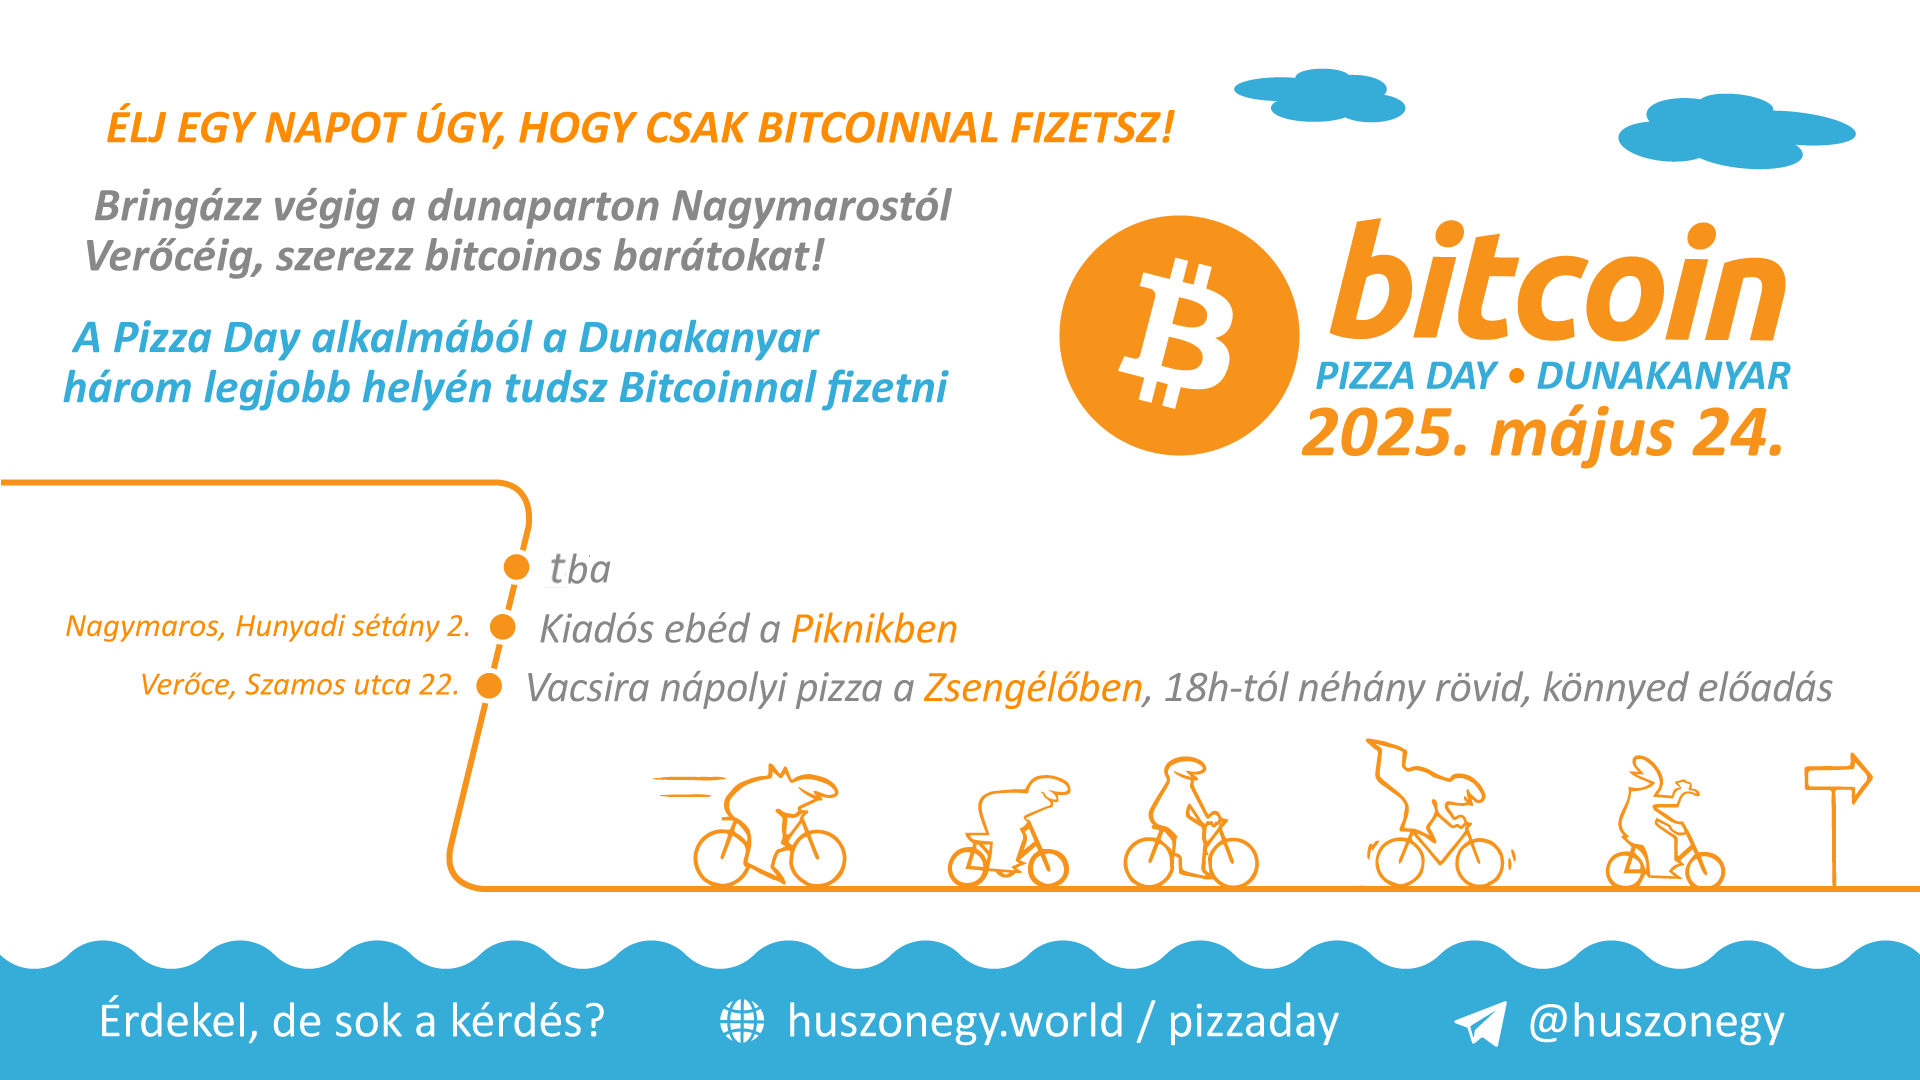
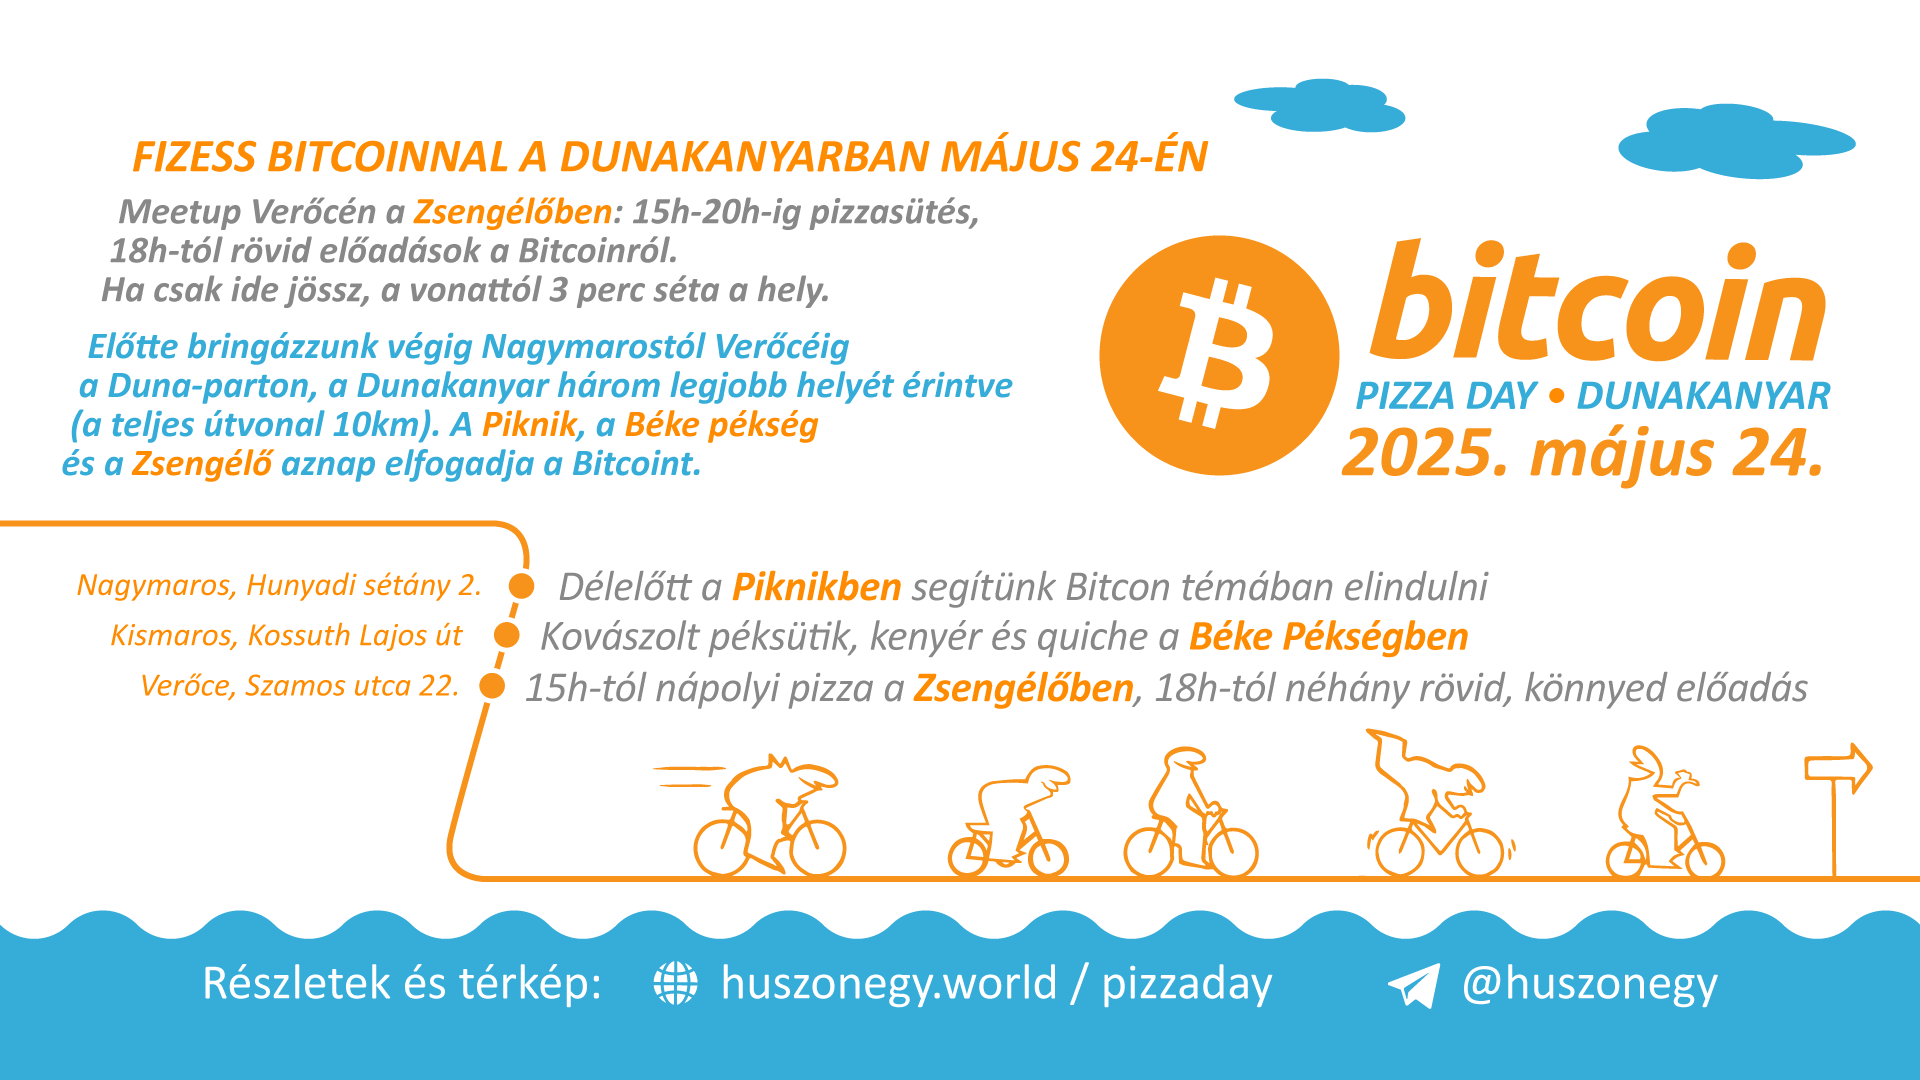
updated pizzaday page

Changed region(s): [[0.0, 0.0611, 1.0, 0.9778], [0.8438, 0.0611, 0.9688, 0.1833], [0.9375, 0.6722, 1.0, 0.7333]]

diff --git a/src/views/PizzaView.vue b/src/views/PizzaView.vue
@@ -1,35 +1,51 @@
 <template>
   <main>
     <div name="main-inner" class="container">
-      <div class="container-sm py-3 px-3 mx-auto" style="min-height: 400px;">
+      <div class="container-sm py-3 px-3 mx-auto" style="min-height: 400px; max-width: 860px;">
         <img src="/pics/pizzaday.jpg" style="max-width: 800px;"><br>
         <h1>Pizza Nap a Dunakanyarban</h1>
 
 <p>
     Idén 15 éve történt a világ első Bitcoinos vásárlása egy magyar származású programozó, Hanyecz László által.
-    Ebből az alkalomból a Dunakanyarban több helyen lehet majd Bitcoinnal fizetni. Kiváló minőségű ételeket és helyi termékeket vásárolhattok, továbbá tettrekész bitcoinosokkal találkozhattok.
+    Ebből az alkalomból a Dunakanyarban több helyen lehet majd Bitcoinnal fizetni és meetupot is tartunk. Kiváló minőségű ételeket és helyi termékeket vásárolhattok, továbbá tettrekész bitcoinosokkal találkozhattok.
 </p>
 <p>
 Néhány gyors infó:
-<li>A Bitcoin egy valuta, ami nem inflálódik és tetszőlegesen darabolható, így akár 10 forintot is tarthatsz bitcoinban</li>
-<li>Egy mobil appot kell csak feltelepíteni, és feltölteni bitcoinnal ahhoz, hogy fizetni tudj vele. Nem kell hozzá varázslónak lenni.</li>
-<li>Egy tranzakció néhány forintba vagy fillérbe kerül és pár másodperc alatt lezajlik.</li>
-<li>A Bitcoin már nem csak a kockák szórakozása, hanem az infláció elleni védekezés hatékony eszköze.</li>
 </p>
+
+<li>A Bitcoin egy valuta, ami nincs kitéve a világban egyre gyorsuló pénznyomtatás inflációs hatásának.</li>
+<li>Tetszőlegesen darabolható, így akár 10 forintot is tarthatsz bitcoinban.</li>
+<li>Egy mobil appot kell csak feltelepíteni, és feltölteni bitcoinnal ahhoz, hogy használni tudd. Nem kell hozzá varázslónak lenni.</li>
+<li>Egy tranzakció néhány forintba vagy fillérbe kerül és pár másodperc alatt lezajlik.</li>
+<li>Helyesen használva a világpolitika aktuális állásától függetlenül rendelkezhetsz a vagyonod Bitcoinban tartott része fölött. Nem lefoglalható, erőszakkal nem elvehető, pénznyomtatással nem inflálható, harmadik féltől nem kell engedély, hogy használhasd.</li>
+<br>
 
 <p>
 Ha most kezded a bitcoinozást, javasoljuk, hogy a "Blink Bitcoin Wallet"-et (iPhoneon "Blink (Bitcoin Beach Wallet)") telepítsd fel a telefonodra mielőtt elindulsz otthonról. Ez egy egyszerűen használható tárca, ami ráadásul helyi termék, hiszen hazai az egyik fejlesztője.
-Tegyél a pénztárcába valamennyi Bitcoint, hogy pizzára, kajára, piára, házi lekvárra, és tanyasi sajtra is jusson! (útmutató hamarosan) Ebben mi is tudunk segíteni a Miegymásban reggel 10-től délig.
+Tegyél a pénztárcába valamennyi Bitcoint, hogy pizzára, kajára, piára is jusson!
+</p>
+<p>
+Aki szeretné, annak a Piknikben délelőtt segítünk, hogy bitcoin kerüljön a tárcájába. Vagy a Zsengélőben délután. Ha csak kíváncsi vagy, mi hajtja a Bitcoinosokat, természetesen forinttal is vásárolhatsz a helyeken, szívesen látunk.
 </p>
 
-<h3>Helyszínek</h3>
+<h3>Helyszínek, ahol elfogadják a Bitcoint aznap</h3>
 <p>
-A Piknikben változatos kajákat, hamburgert, sütiket, sülteket vagy épp indiai fűszerezéssel készült egytálételeket kaptok. Érdemes elidőzni egy kicsit a mediterrán hangulatú helyen a Duna-parton.
+<img src="/pics/zs.jpg" height="160">
+&nbsp;
+<img src="/pics/b.jpg" height="160">
+&nbsp;
+<img src="/pics/pm.jpg" height="160">
+</p>
+
+<p>
+A <b>Piknik Manufaktúrában</b> változatos kajákat, hamburgert, sütiket, sülteket vagy épp indiai fűszerezéssel készült egytálételeket kaptok. Érdemes elidőzni egy kicsit a mediterrán hangulatú helyen a Duna-parton. Reggel 10h-tól 13h-ig minket is megtaláltok ott, és segítünk mindenben ami az induláshoz kell, válaszolunk a kérdéseitekre.
 </p>
 <p>
-Délután a Zsengélőben, Verőce kulturális középpontjában egy kiváló pizza mellett, a diófa árnyékában tapasztalt bitcoinosok fognak a kérdéseitekre válaszolni, praktikus tippeket adni, segíteni wallet témában, és abban, hogy hozzájussatok azokhoz a kevésbé ismert, ám fontos részletekhez, amik az újságcikkekből gyakran kimaradnak.
+A <b>Béke Pékség és Bisztró</b> a bringaút mellett található, ahol igen kényesek az étel minőségére. Bio minősítésű Csorosznyai lisztet használnak és egész éjjel kovászolják a tésztát sütés előtt, Különböző ízesítésű kenyereket és péksütiket, quiche-t és mikrozöldségeket kaphattok a kávé mellé. Bio-lisztet is vásárolhattok náluk, melyen tapintható a különbség a bolti liszthez képest.
 </p>
-<p>A harmadik helyszínt később jelentjük be.</p>
+<p>
+Délután a <b>Zsengélőben</b>, Verőce kulturális középpontjában egy kiváló pizza mellett tapasztalt bitcoinosok fognak a kérdéseitekre válaszolni, praktikus tippeket adni, segíteni wallet témában, és abban, hogy hozzájussatok azokhoz a kevésbé ismert, ám fontos részletekhez, amik az újságcikkekből gyakran kimaradnak. Ez a fő helyszín, ahol délután 6 óra körül 5 perces, könnyed előadásokat hallhattok. Ha van neked is témád, amiről 5 percben beszélnél, keress meg minket a Telegramon! A pizza 15h-20h-ig elérhető.
+</p>
 
 <h3>Info tapasztalt bitcoinosoknak</h3>
 <p>
@@ -44,11 +60,15 @@ Bármelyik bitcoin wallet jó, ami támogat lightning-ot. A pultos egy QR kódot
 <a href="https://www.facebook.com/piknikmanufaktura">Piknik Manufaktúra</a>
 </p>
 <p>
+<a href="https://www.facebook.com/beke.pekseg.bisztro">Béke Pékség és Bisztró</a>
+</p>
+<p>
 <a href="https://www.facebook.com/zsengelocafe ">Zsengélő Café</a>
 </p>
 
 <h3>Odajutás</h3>
-(info később)
+Nyugatiból 35 perc vonattal Verőcéig, majd Verőce vasútállomástól a Zsengélőig 3 perc séta.
+<img src="/pics/zsengimap.jpg" width="800">
 
       </div>
     </div>
